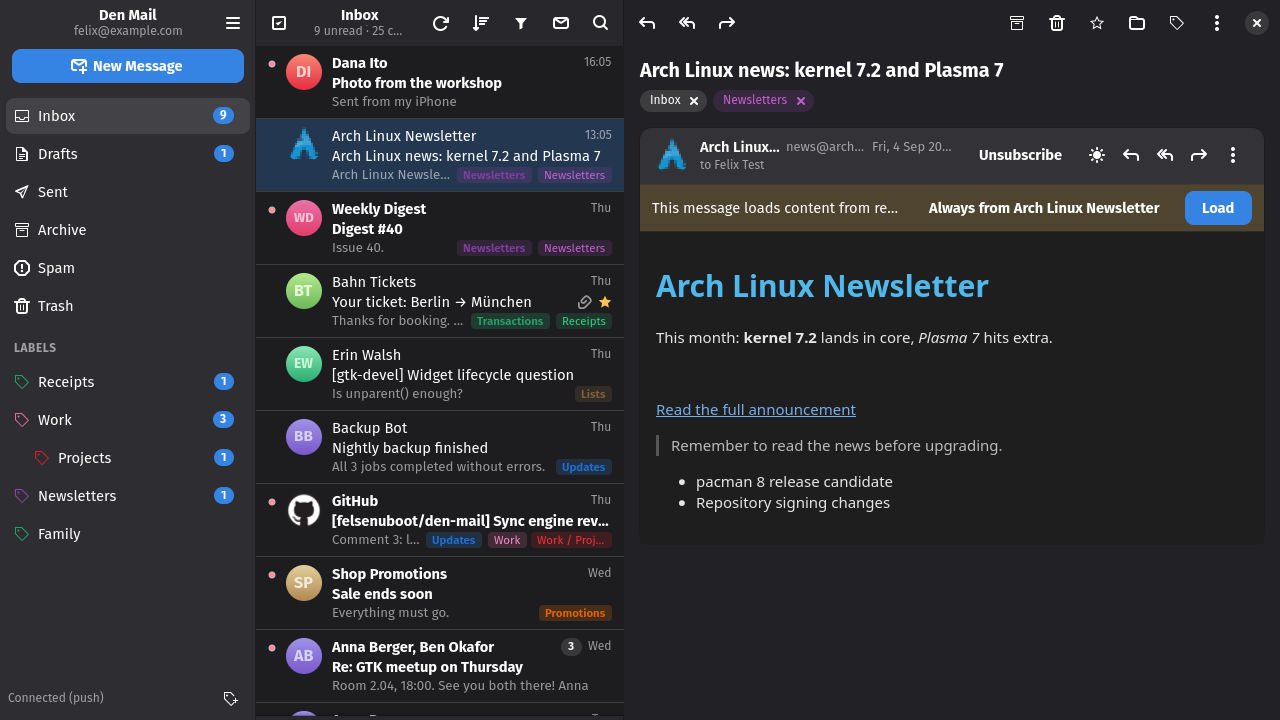
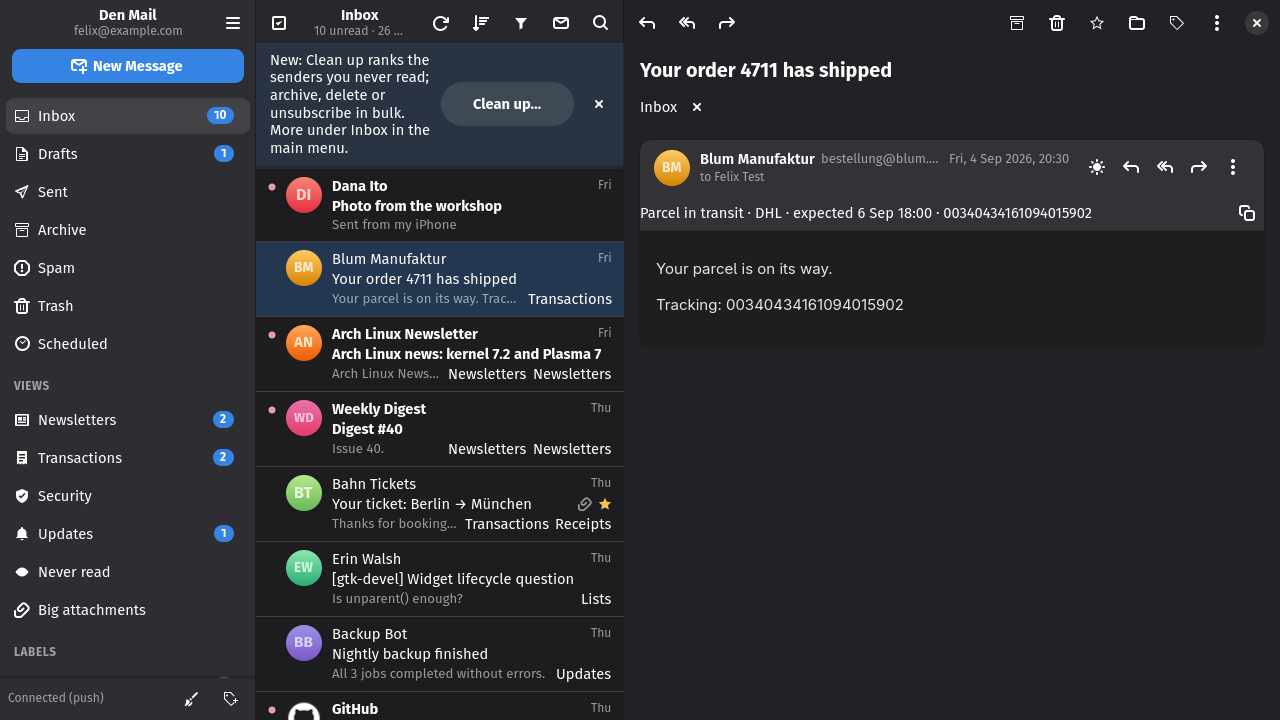
Tour: a first-ten-minutes path, every feature since 0.2, aligned header, fresh screenshots
The dictionary entry at the top sits in a table next to the calligraphy, so
both readings line up. A "first ten minutes" section leads a new user
through signing in, acting on mail, the categories and views, Clean up and
Preferences. New sections cover the assistant and summaries, label
suggestions, two conversations side by side and running in the background;
Lock, Offline and Preferences say what they do now. Every screenshot is
regenerated; make.sh resets the preferences before each picture (they used
to inherit the theme and grouping of the one before), and a canned model
(tests/fake_llm.py) answers the summary shot (#103).

Claude-Session: https://claude.ai/code/session_01VDpY5EP7thEdxRV4pVnbq3

diff --git a/tests/fake_llm.py b/tests/fake_llm.py
@@ -1,0 +1,45 @@
+"""A canned OpenAI-compatible server for screenshots and smoke runs: every chat completion
+answers with the same short summary, and /models lists one model.
+
+    python -m tests.fake_llm 18082
+"""
+
+from __future__ import annotations
+
+import json
+import sys
+from http.server import BaseHTTPRequestHandler, HTTPServer
+
+MODEL = "fake-summariser"
+ANSWER = ("The sender confirms the order and says the parcel is on its way with DHL, expected on 6 September "
+          "around 18:00.\nNothing to do: the tracking number is in the message.")
+
+
+class Handler(BaseHTTPRequestHandler):
+    def log_message(self, *_a):
+        pass
+
+    def _send(self, body: dict) -> None:
+        data = json.dumps(body).encode()
+        self.send_response(200)
+        self.send_header("Content-Type", "application/json")
+        self.send_header("Content-Length", str(len(data)))
+        self.end_headers()
+        self.wfile.write(data)
+
+    def do_GET(self):
+        self._send({"object": "list", "data": [{"id": MODEL}]})
+
+    def do_POST(self):
+        length = int(self.headers.get("Content-Length") or 0)
+        self.rfile.read(length)
+        self._send({"choices": [{"message": {"role": "assistant", "content": ANSWER}, "finish_reason": "stop"}],
+                    "model": MODEL})
+
+
+def main(port: int) -> None:
+    HTTPServer(("127.0.0.1", port), Handler).serve_forever()
+
+
+if __name__ == "__main__":
+    main(int(sys.argv[1]) if len(sys.argv) > 1 else 18082)

diff --git a/docs/TOUR.md b/docs/TOUR.md
@@ -1,20 +1,46 @@
 # Den Mail tour
 
-<img src="../den_mail/den-calligraphy.png" width="140" alt="伝" align="left" hspace="24">
+<table>
+<tr>
+<td width="160" valign="top"><img src="../den_mail/den-calligraphy.png" width="140" alt="伝"></td>
+<td valign="top">
 
-> **伝** 〔でん · *den*〕 noun
-> 1. legend; tradition
-> 2. biography; life
-> 3. method; way
-> 4. horseback transportation and communication relay system used in ancient Japan
->
-> **伝** 〔つて · *tsute*〕 noun
-> 1. means of making contact; intermediary; go-between
-> 2. connections; influence; pull; good offices
->
-> <sub>usually written using kana alone; also 伝手, ツテ · [jisho.org](https://jisho.org/search/%E4%BC%9D)</sub>
+**伝** 〔でん · *den*〕 noun
+1. legend; tradition
+2. biography; life
+3. method; way
+4. horseback transportation and communication relay system used in ancient Japan
 
-<br clear="all">
+**伝** 〔つて · *tsute*〕 noun
+1. means of making contact; intermediary; go-between
+2. connections; influence; pull; good offices
+
+<sub>usually written using kana alone; also 伝手, ツテ · [jisho.org](https://jisho.org/search/%E4%BC%9D)</sub>
+
+</td>
+</tr>
+</table>
+
+## The first ten minutes
+
+1. **Sign in** with a Fastmail API token (Mail read/write; add the Contacts
+   scope for your address book). The Inbox lists at once and keeps syncing
+   over push.
+2. **Read and act.** `j`/`k` move, `e` archives, `#` deletes, `r` replies;
+   labels and folders are one key away (`l`, `v`). Everything undoes from the
+   toast.
+3. **Let the categories work.** Every message is sorted locally into
+   Transactions, Security, Updates, Newsletters and so on; the *Views* in the
+   sidebar answer "what is a newsletter here" without a search.
+4. **Clean up.** *Clean up…* in the main menu ranks the senders you never
+   read; tick a few and archive, delete or unsubscribe in one go. *Always for
+   this sender…* in a conversation's context menu turns a decision into a
+   rule.
+5. **Make it yours** in Preferences: the screener for strangers, a lock, an
+   assistant for summaries, logos, keeping the app running in the background.
+
+The empty conversation pane shows a tip and quick links to these tools on
+every start.
 
 ## Reading mail
 
@@ -192,6 +218,9 @@ listed. Archiving, labelling, deleting and sending keep working: the change
 is applied locally, queued in the cache, and sent with the first sync after
 the connection returns; the sidebar says how many changes are waiting. A
 queued change the server then rejects is reported in a toast and dropped.
+A draft saved offline is kept in the cache and listed in Drafts; the next
+sync creates it on the server, and a compose window still open carries on
+against the server's copy.
 
 ## Send later
 
@@ -227,6 +256,54 @@ clicking one copies it.
 | --- | --- |
 | ![Identities dialog](../data/screenshots/identities.png) | ![Masked Email dialog](../data/screenshots/masked.png) |
 
+## Assistant and summaries
+
+*Assistant* in Preferences (off by default) points the app at a language
+model: Ollama on this machine, any server that speaks the OpenAI API (LM
+Studio, llama.cpp, vLLM, OpenAI, Mistral, Groq, OpenRouter …) or Anthropic.
+The server, the model, a key kept in the keyring, a requests-per-day limit
+and a *Test* button that reaches the server without spending a request; a
+row says whether the mail text stays on this machine or leaves it for the
+chosen server. Thinking models are asked to skip the thinking on local
+servers, so they answer instead of reasoning in silence.
+
+![The Assistant page of Preferences](../data/screenshots/assistant.png)
+
+With the assistant on, the sparkle in a conversation's header (or
+Ctrl+Shift+S) sums the thread up in a few lines above the messages, quoted
+history left out and older messages cut first so a long thread still fits a
+small model. The answer is cached per thread: a second look is free, a new
+reply asks again. In Clean up, an expanded sender row starts with a one-line
+description of their newest message, so you can decide without opening
+anything.
+
+![A conversation summarised above the messages](../data/screenshots/summary.png)
+
+## Label suggestions
+
+The app learns from the mail you have labelled. Once a label has enough
+examples and the model is sure about a conversation that lacks it, a dashed
+chip such as *Work?* appears next to the labels; one click applies it. The
+tooltip says how sure the model is and which words spoke for it. Folders are
+never suggested; *Suggest labels* under *Inbox* in Preferences turns the chips
+off.
+
+## Two conversations side by side
+
+On a wide window (an ultrawide monitor, 2200 pixels or more) *Open beside*
+in a conversation's context menu, or `b`, pins the conversation in a second
+column next to the reading pane, with its own Reply, Archive, labels, Move
+and Summarise, while the list keeps driving the first pane. On a narrower
+window the same command opens the conversation in a window of its own, as
+double-click and Return always did.
+
+## Running in the background
+
+*Keep running when the window is closed* under *Account* in Preferences
+(off by default) makes closing the window hide it instead: mail keeps
+syncing and notifications keep coming, a click on one opens that message,
+and *Quit* in the main menu (Ctrl+Q) ends the app.
+
 ## Tips
 
 While nothing is selected, the conversation pane shows the app's name as a
@@ -242,22 +319,26 @@ Newsletters, Rules, the search and the shortcuts, whatever tip is showing.
 and hides the compose and conversation windows with it; a notification that
 arrives meanwhile says "New mail" and nothing else. Turn the lock on under
 *Account → Lock* in Preferences, choose to lock after some idle time and
-when the desktop session locks. Unlocking uses the system's own
-authentication prompt (password, fingerprint, whatever PAM is set up for)
-where the polkit policy file is installed, which the AUR package does and
-`install.sh` shows the one command for; elsewhere, a Flatpak in particular,
-a passphrase or a PIN set in Preferences, which the lock needs before it
-can be switched on. This is a privacy screen, not a security
-boundary: the cache and the token are not encrypted by it.
+when the desktop session locks, and choose what *Unlock* asks: the system's
+own authentication prompt (password, fingerprint, whatever PAM is set up
+for) where the polkit policy file is installed, which the AUR package does;
+the keyring daemon's prompt for a *Den Mail* keyring of its own, which
+works inside a Flatpak and never touches the login keyring; or a passphrase
+or PIN set right there. This is a privacy screen, not a security boundary:
+the cache and the token are not encrypted by it.
+
+![The Lock section of the Account page](../data/screenshots/lock.png)
 
 ## Preferences
 
-Three pages. *General* holds the theme, sender logos, remote images and
-trusted senders, reading and composing options. *Inbox* is where the
+Four pages. *General* holds the theme, where sender logos come from (each
+sender's site, DuckDuckGo's icon service, BIMI only, or off), remote images
+and trusted senders, reading and composing options. *Inbox* is where the
 cleanup tools live: rows that open Clean up, Rules and Newsletters with a
-line on what each does, the Views switch and the screener. *Account* has
-notifications, the poll interval, the server's capabilities, the cache and
-sign-out. The same tools sit under *Inbox* in the main menu, behind the broom
+line on what each does, the Views switch, the screener and label
+suggestions. *Assistant* is the language model. *Account* has the lock,
+notifications, background running, the poll interval, the server's
+capabilities, the cache and sign-out. The same tools sit under *Inbox* in the main menu, behind the broom
 at the bottom of the sidebar, and the Newsletters, Updates and Never read
 views offer Clean up for their senders in a banner above the list.
 
@@ -277,6 +358,9 @@ views offer Clean up for their senders in a banner above the list.
 | `s` | flag / unflag |
 | `Shift+U` / `Shift+I` | mark unread / read |
 | `l` / `v` | labels / move to |
+| `b` | open beside (wide window) or in a new window |
+| `Ctrl+Shift+S` | summarise the conversation (assistant) |
+| `Ctrl+Shift+L` | lock |
 | `/`, `Ctrl+F` | search |
 | `g` then `i` / `d` | go to Inbox / Drafts |
 | `F5`, `Ctrl+R` | refresh |

diff --git a/changelog.d/103-tour.changes.md b/changelog.d/103-tour.changes.md
@@ -1,0 +1,1 @@
+The tour has a path through the first ten minutes, sections for the assistant and summaries, label suggestions, two conversations side by side and background running, the three unlock methods, fresh screenshots, and an aligned dictionary entry at the top
